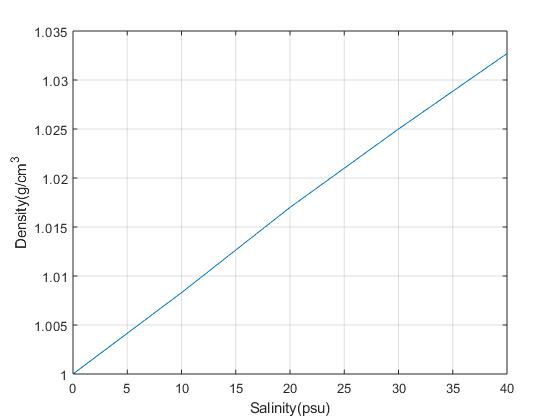
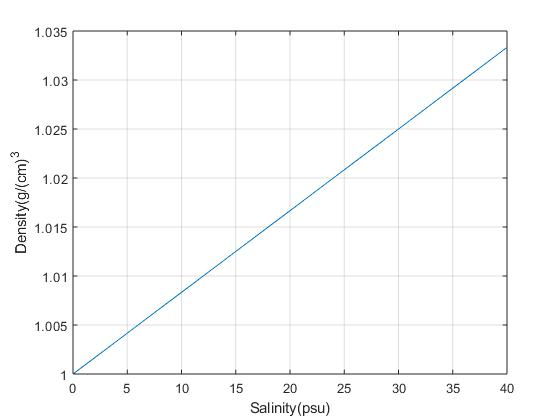
added text (nicht Final, fehlende Stellen)

diff --git a/skript/thermohalin/einleitung.tex b/skript/thermohalin/einleitung.tex
@@ -1,40 +1,56 @@
+\section{Einleitung}
+\rhead{Einleitung}
+
+Diese Arbeit hier befasst sich damit, das zuvor vorgestellte 2-Box Modell zu einem 3-Box Modell zu erweitern. Mit diesem Modell soll dann versucht werden, reale Strömungen zu simulieren. Weiter wird dann der Einfluss der Klimaerwärmung auf diese Strömungen untersucht und mit anderen, weiter Entwickelten, Modellen verglichen.
+
+%more coming soon
+
 \section{THC, Was ist das?}
 \rhead{THC, Was ist das?}
 
-Die "THC", ausgeschrieben thermohaline Zirkulation. Ist eine Weltumspannende Meeresströmung welche in verschiedene Abschnitte aufgeteilt werden kann.
-Diese Strömungen sorgen für eine Durchmischung der verschiedenen Ozeane. So erzeugen sie einen Wärme- und Nährstoffaustausch in den verschiedenen Weltregionen. 
-Die Auswirkung dieses Energieaustausches sind spürbar, so heizt zum Beispiel der Golfstrom, welcher Auch zu diesen Strömungen gehört Nordeuropa um mehrere Grad auf.
-Doch wie entsteht diese Strömung?
-Hier spielen viele Einflüsse eine Rolle. Die Verteilung der Kontinente, die Corioliskraft, die Wasserdichte und auch Wetter und Winde. 
-Im Rahmen dieser Arbeit werde ich nur auf die Wasserdichte als Einfluss eingehen. Sie ist gut zu simulieren und ist durch die einfache Veränderbarkeit auch am Spannendsten.
-die Verteilung der Kontinente und auch die Corioliskraft sind durch ihre kaum vorhandene Änderung als Konstanten zu betrachten. Das Letzte was noch bleibt, sind Wind und Wetter. 
-Diese Einflüsse sind praktisch nicht vorherzusagen und auch ihr Einfluss variiert stark. Aus diesem Grund werden auch diese nicht Simuliert. 
-Zusätzlich würde das Einbeziehen dieser grössen die Komplexität der Simulation Stark erhöhen.
+Die "THC", abgekürzte thermohaline Zirkulation, ist eine Weltumspannende Meeresströmung.
+Diese Strömungen sorgen für eine Durchmischung der verschiedenen Ozeane und den damit einhergehenden Energie und Nährstoffaustausch. 
+Die Auswirkung dieses Energieaustausches sind spürbar, so heizt zum Beispiel der Golfstrom, welcher auch zu diesen Strömungen gehört, Nordeuropa um mehrere Grad auf.
+Doch wie entsteht diese Strömung? 
+
+Diese Frage wurde schon im Kapitel 4 "Thermohaline Zirkulation" behandelt, hier jedoch noch einmal eine kurze Zusammenfassung.
+
+
+
+\subsection{Verschiedene Einflüsse}
+Es gibt viele Einflüsse die zur Entstehung und veränderung dieser Strömungen beitragen. Die Verteilung der Kontinente, die Corioliskraft, die Wasserdichte und auch Wetter und Winde. Hier wird jedoch nur auf den Einfluss der Wasserdichte eingegangen.
+Die Verteilung der Kontinente und auch die Corioliskraft ändern sich kaum und können daher als Konstanten betrachtet werden. Wind und Wetter werden hier weggelassen, da ihr Einfluss nur schwer vorherzusagen ist und sich schnell ändern kann. Mit dem im Rahmen dieser Arbeit verwendeten Modell lassen sich diese Komponenten auch gar nicht Simulieren.
 
 \subsection{Dichte}
-\rhead{Dichte}
-
+Wie oben bereits erwähnt, fokussieren wir hier auf die Dichte.
 Die Thermohaline Zirkulaton wird hauptsächlich durch Dichteunterschiede im Wasser hervorgerufen.
-Dichtes Wasser sinkt ab und weniger dichtes Wasser steigt bekanntlich auf. Die Hauptsächlichen Einflussfaktoren der Wasserdichte sind:
+Dichtes Wasser sinkt, und weniger dichtes Wasser steigt bekanntlich auf. Die Hauptsächlichen Einflussfaktoren auf die Wasserdichte sind:
 
 \begin{itemize}
-	\item Salzgehalt
-	\item Temperatur
+	\item Der Salzgehalt
+	\item Die Temperatur
 \end{itemize}
 
-Durch einen hohen Salzgehalt wird das Wasser dichter. Die Temperatur hat den inversen Einfluss. Je wärmer das Wasser wird, desto weniger dicht ist es. 
+Durch einen hohen Salzgehalt wird das Wasser dichter und beginnt zu sinken. Die Temperatur hat den inversen Einfluss, ist jedoch weniger linear. Je wärmer das Wasser wird, desto weniger dicht ist es. Dieser Effekt sorgt auch dafür, dass gefrorenes Wasser auf flüssigem Wasser schwimmt.
+
+Wenn nun dichtes Wasser irgendwo absinkt muss dort an der Oberfläche Wasser nachfliessen, was eine starke Oberflächenströmung erzeugt. Wenn dann an einem anderen Ort(am Meeresgrund), die Dichte des Tiefenwassers reduziert wurde, beginnt es aufzusteigen. So muss dort Tiefenwasser nachfliessen. Wenn wir nun diese beiden Ereignisse kombinieren entsteht so ein Kreislauf. Skalieren man dies nun auf Weltmeergrösse ist die Thermohaline Zirkulation recht einfach beschrieben. Die Einflüsse, welche das Wasser an bestimmten Stellen aufsteigen und absinken lassen, werden später an einem konkreten Beispiel aufgezeigt.
+
 Hier zwei Grafiken zur Veranschaulichung:
-\begin{figure}
-\includegraphics{code/graphs/graph_salinity.jpg}
-\caption{Dichteveränderung abhängig vom Salzgehalt}
+
+\begin{figure}[H]
+	\centering
+\includegraphics[width=12cm]{thermohalin/code/graphs/graph_salinity.jpg}
+\caption{Dichteänderung abhängig vom Salzgehalt}
 \end{figure}
 
-\begin{figure}
-\includegraphics{code/graphs/graph_temp.jpg}
-\caption{Dichteveränderung abhängig von der Temperatur}
+\begin{figure}[H]
+	\centering
+	\includegraphics[width=12cm]{thermohalin/code/graphs/graph_temp.jpg}
+	\caption{Dichteänderung abhängig von der Temperatur}
 \end{figure}
 
-Diese Einflüsse Lassen sich in einer Gleichung zusammenfassen, welche im Hauptteil des Buches im Kapitel \ref{Salinität und Dichte} schon Besprochen wurde.
+ Diese Einflüsse Lassen sich in einer Gleichung zusammenfassen, mit welcher sich die dichte des Wassers berechnen lässt. Damit lässt sich über eine Dichtedifferenz, ein Wasserfluss bestimmen.
+ 
 
 \begin{equation}
 \varrho
@@ -43,35 +59,42 @@ Diese Einflüsse Lassen sich in einer Gleichung zusammenfassen, welche im Hauptt
 \label{skript:salinity-linear}
 \end{equation} 
 
-Mittels dieser Gleichung lässt sich nun ein Simulation erstellen, mit welcher sich solche Strömungen simulieren lassen.
+Weitere Details zur grundlegenden Funktion der Simulation finden sich im Kapitel "4 THC".
 
-\subsection{Golfstrom}
+
+\section{Golfstrom}
 \rhead{Golfstrom}
 
-Im Rahmen dieser Arbeit habe ich versucht den Golfstrom, welcher Europa direkt beeinflusst, zu Simulieren.
-Als fokussieren ich hier nur auf einen kleinen Teil der Globalen Thermohalinen Zirkulation.
+Wie oben erwähnt wird nun versucht eine solche Strömung mittels eines 3-Box Modells zu simulieren.
+Die ganze weltumspannende Zirkulation zu simulieren würde viel mehr als drei Boxen benötigen und wäre viel komplizierter und Rechenaufwändiger. Deshalb beschränke ich mich hier auf den Golfstrom.
+Der Golfstrom eignet sich bestens zur Simulation da er sich grob in 3 Regionen aufteilen lässt und so gut in das Modell passt. Zusätzlich ist es der Strom, welcher Nordeuropa warm hält, was auch für die Schweiz eine grosse Bedeutung hat.
 
+Die Frage ist auch, was passiert mit dem Golfstrom, wenn Klimaerwärmung und Umweltverschmutzung weiter ansteigen? 
 
-\begin{figure}
-	\includegraphics[]{bilder/deep_ocean_currents.jpg}
+\begin{figure}[H]
+	\includegraphics[width=12cm]{thermohalin/bilder/Deep-Ocean-Currents.jpg}
+	\centering
+	\caption{Golfstrom}
 \end{figure}
 
-Die Frage ist nun, was passiert mit dem Golfstrom, wenn Klimaerwärmung und Umweltverschmutzung weiter ansteigen?
 
-\subsubsection{Funktionsweise}
 
-Doch zuerst dazu, wie der Golfstrom funktioniert.
+\subsection{Funktionsweise}
+
+Doch zuerst dazu, wie der Golfstrom genau funktioniert.
 Der Golfstrom entspringt im Golf von Mexiko. Von dort aus wird das Warme Wasser von Winden und der Erdrotation nach Norden getrieben.
-Auf diesem Weg kühlt das Wasser langsam ab, und wird durch die fortlaufende Verdunstung von Wasser immer salziger. Da der Einfluss der Salinität grösser ist als der der Temperatur, beginnt das Wasser im Norden, durch die nun Hohe Dichte abzusinken. Wenn das Wasser dann abgesunken ist, treibt es dem Grund des Meeres entlang bis nach Afrika, was den Kreislauf schliesst.
+Auf diesem Weg kühlt das Wasser langsam ab, und wird durch die fortlaufende Verdunstung von Wasser immer salziger. Da der Einfluss der Salinität grösser ist als der der Temperatur, beginnt das Wasser im Norden, durch die nun Hohe Dichte abzusinken. Wenn das Wasser dann abgesunken ist, treibt es dem Grund des Meeres entlang bis nach Südafrika, was den Kreislauf schliesst.
+
+\subsection{Einfluss des Klimawandels} 
 Wo hat der Klimawandel nun seinen Einfluss?
 Um diese Frage zu beantworten, müssen wir weiter zurückschauen, genauer gesagt zum Kap der guten Hoffnungen. Denn eigentlich beginnt die Strömung schon dort. 
 Dort Stellt sich die Frage, in welcher Richtung der Indische Ozean und der Atlantik ihr Salz austauschen. 
-Denn eine Veränderung der Salzbilanz könnte im Norden, also vor der Küste Grönlands für eine Störung des Absinkens sorgen, und so den Strom zum erliegen bringen. 
-Eine Störung der Salzzufuhr könnte also den Golfstrom zum erliegen bringen.
+Denn eine Veränderung der Salzbilanz könnte im Norden, vor der Küste Grönlands, für eine Störung des Absinkens sorgen, und so den Strom zum erliegen bringen. 
+Eine Störung der Salzzufuhr könnte also den ganzen Golfstrom zum stillstand bringen.
 Hier gehen die Meinungen der Forscher jedoch auseinander. Salzmessungen im offenen Meer sind sehr schwierig. 
 Im Moment zeigen diese jedoch, dass der Golfstrom weiter Salz in den Atlantik importiert und sich so selber am leben erhält.
 
-Weiter kommt da noch die Erhöhung des CO2-Gehaltes in der Luft und die somit einhergehende Klimaerwärmung. sie hat zwei direkte Auswirkungen auf den Golfstrom:
+Weiter kommt da noch die Erhöhung des CO2-Gehaltes in der Luft und die somit einhergehende Klimaerwärmung. Sie hat zwei direkte Auswirkungen auf den Golfstrom:
 
 \begin{itemize}
 	\item Durch die Erhöhung der Lufttemperatur kann das Wasser auf dem Weg in den Norden nicht mehr genug abkühlen, um danach abzusinken.
@@ -80,7 +103,7 @@ Weiter kommt da noch die Erhöhung des CO2-Gehaltes in der Luft und die somit ei
 
 Diese Beiden Prozesse, wären alleine in der Lage den Golfstrom zu stören, doch zusammen ist die Wirkung noch viel schlimmer.
 
-Laut einer Studie des Forschers Liu Wei von der Universität Yale vom 04 Jan 2017 könnte dieses Szenario in den nächsten 300 Jahren tatsächlich eintreten. Sie zeigen auf, dass falls sich die Rate seit 1990 verdoppelt, der Golfstrom in den nächsten 300 Jahren versiegen könnte.
+Laut einer Studie des Forschers Liu Wei von der Universität Yale vom 04 Jan 2017 könnte dieses Szenario in den nächsten 300 Jahren tatsächlich eintreten. Sie zeigen auf, dass falls sich die $CO^2$-Rate vom Niveau von 1990 verdoppelt, der Golfstrom in den nächsten 300 Jahren versiegen könnte.
 
 \subsubsection{Folgen}
 
@@ -88,30 +111,4 @@ Was passiert, falls der Golfstrom zum erliegen kommt, oder sogar seine Richtung 
 Ich denke der Film "The day after tomorrow" von Roman Emmerich ist bekannt. Er zeigt was passieren könnte, falls der Golfstrom zum erliegen kommt. 
 Im Film versinkt innert weniger Tage die ganze Welt in einer neuen Eiszeit un alles endet im Chaos. 
 Das ist natürlich ein wenig übertrieben Dargestellt, doch die Richtung stimmt. Falls der Golfstrom stoppt, würde trotz Klimaerwärmung Nordeuropa um einige Grad kälter werden.
-
-
-
-
-
-
-
-
-
-
-
-
-
-	
-	
-	
-	
-	
-	
-	
-	
-	
-	
-	
-	
-	
-\end
+%more text coming soon

diff --git a/skript/thermohalin/hauptteil.tex b/skript/thermohalin/hauptteil.tex
@@ -1,19 +1,18 @@
 \section{Simulation}
 \rhead{Simulation}
 
-Im Rahmen dieser Arbeit wird nun versucht, die Zwei-Box Simulation aus \ref{Kapitel 4} in eine 3-Box Simulation umzuwandeln und diese auf den Golfstrom anzuwenden.
-Als jeweils eine Box für jeden Pol und eine Box für den Äquator.
-Mit den richtigen Startbedingungen sollte ich so hoffentlich auf die gleichen Resultate wie die Forscher kommen.
+Nun zur Simulation. Der Golfstrom lässt sich leicht in 3 Zonen aufteilen, jeweils eine für Nord- und Südpol und eine für den Äquator.
+Als jeweils eine Box für jede Zone.
+Der Erste Schritt ist es nun, ein Modell zu erstellen. 
+Im laufe der Arbeit wurden zwei Modelle gebaut, welche hier präsentiert werden.
 
-Der Erste Schritt ist es nun, ein Modell zu erstellen. Ich habe im lauf der Bearbeitung zwei Modelle erstellt, welche ich hier vorstellen werde. 
+\subsection{"Zwei Fluss" Modell}
 
-\subsection{Zwei Fluss Modell}
-
-In diesem Modell sind je zwei Boxen durch einen separaten Fluss verbunden, welcher wie bereits bekannt, von den jeweiligen Dichteunterschieden abhängig ist.
+In diesem Modell sind je zwei Boxen durch einen separaten Fluss verbunden. Der Fluss ist dann jeweils wie bersits bekannt von den jeweiligen Dichteunterschieden abhängig. Hier ein Darstellung des Modelles:
 
 %Platzhalter Tikz 3Box2Fluss  
 
-So kann Man für jede Box separat eine Gleichung für die Temperatur- und Salinitätsänderung erstellen:
+So lassen sich, wie bereits beim 2-Box Modell, jeweils für jede Box zwei Gleichungen aufstellen:
 
 \begin{equation}
 \begin{aligned}
@@ -44,6 +43,9 @@ Und den dazugehörenden Gleichungen für die zwei Flüsse:
 \end{aligned}
 \end{equation}
 
+\subsubsection{Matlab-Code}
+
+Erklärung des codes, Codeausschnitte
 
 \subsubsection{Resultate}
 
@@ -52,6 +54,8 @@ Die Gleichungen sehen vielversprechend aus. Nur stimmen die Resulatate nicht mit
 Durch die entkoppelung der zwei Flüsse, war es möglich das der eine Seine Richtung ändert, der andere jedoch bleibt. Das resultiert in zwei gegenläufige Ströme welche in keiner Weise mit dem Golfstrom übereinstimmen.
 Nachträglich ist dieser Fehler offensichtlich. Durch das Erlauben von zwei Flüssen Wird ermöglicht, dass in der Mitte euch eine auf- und Absteigzone entsteht.
 diese Tatsache macht dieses Modell zu einem Fehlschlag.
+
+%%input Matlab Graphen zur Darstellung der trennung und umkehrung der Zwei flüsse!!
 
 \subsection{Ein Fluss Modell} 
 
@@ -81,5 +85,17 @@ Aus diesem Modell lassen sich nun neue Gleichungen für die Boxen aufstellen:
 \frac{dS_3}{dt} &= -H/2 &+d(S_e-S_3)&+\begin{cases} q(S_2-S_3) & \quad q>0 \\ |q|(S_1-S_3) & \quad q<0 \end{cases}
 \end{aligned}
 \end{equation}	
+\subsubsection{Matlab-code}
 
-sichtbar ist hier nn, dass der Fluss imme
+Erklärung der Änderung, (Codeausschnitte)
+
+
+\subsubsection{Resultate} 
+
+1. Resultat normale Simulation mit aktuellen Werten
+
+2. Simulation der werte nach klimaerwärmung
+
+3. Vergleich Paper Liu Wei
+
+

diff --git a/skript/thermohalin/schlussfolgerung_fazit.tex b/skript/thermohalin/schlussfolgerung_fazit.tex
@@ -1,2 +1,3 @@
 \section{Schlussfolgerung/Fazit}
 \rhead{Schlussfolgerung/Fazit}
+
